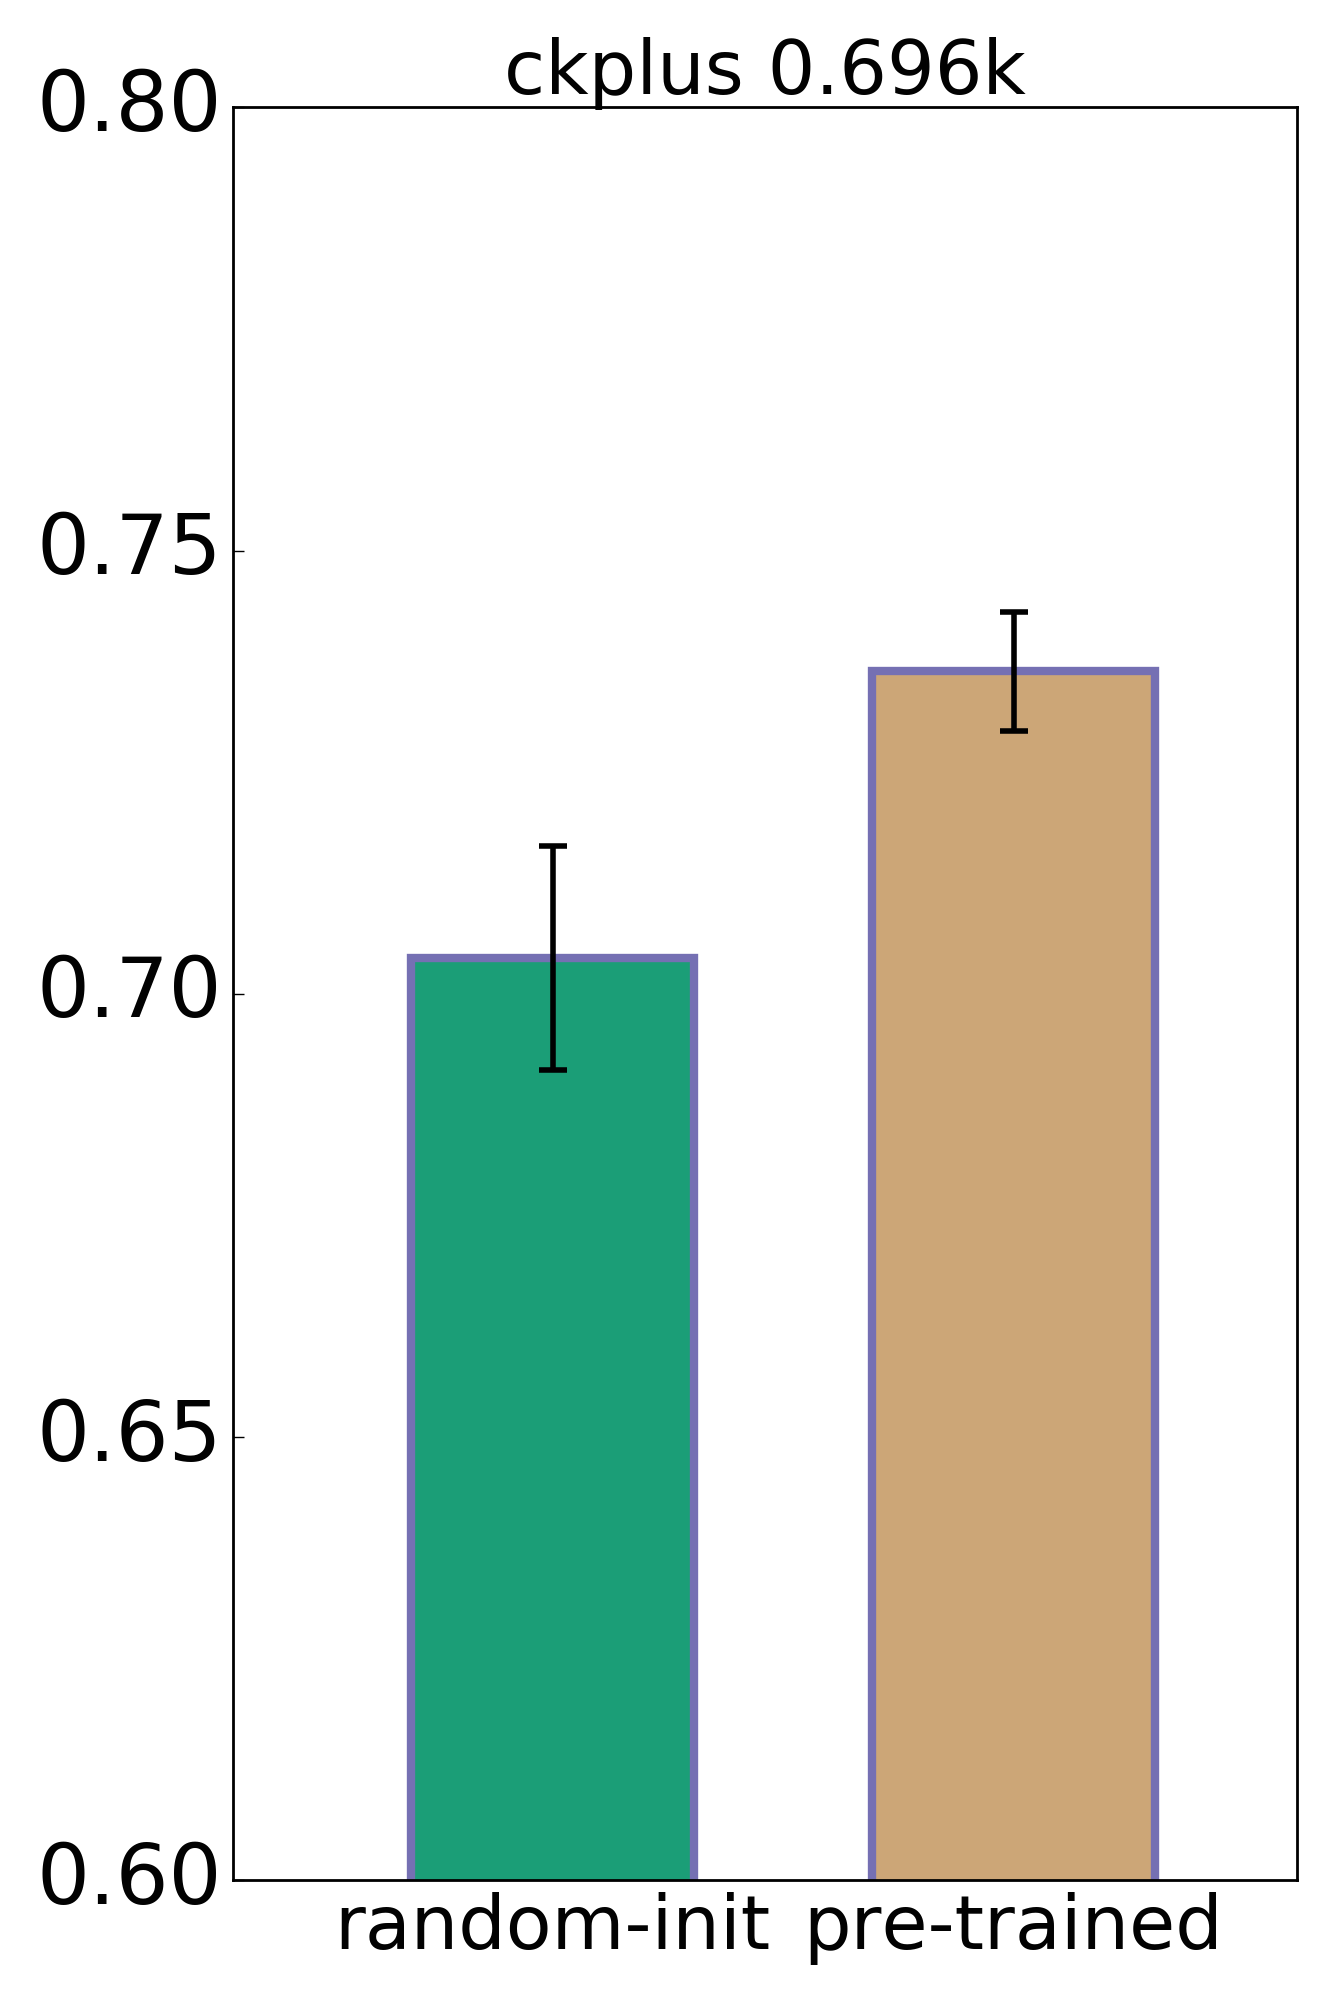
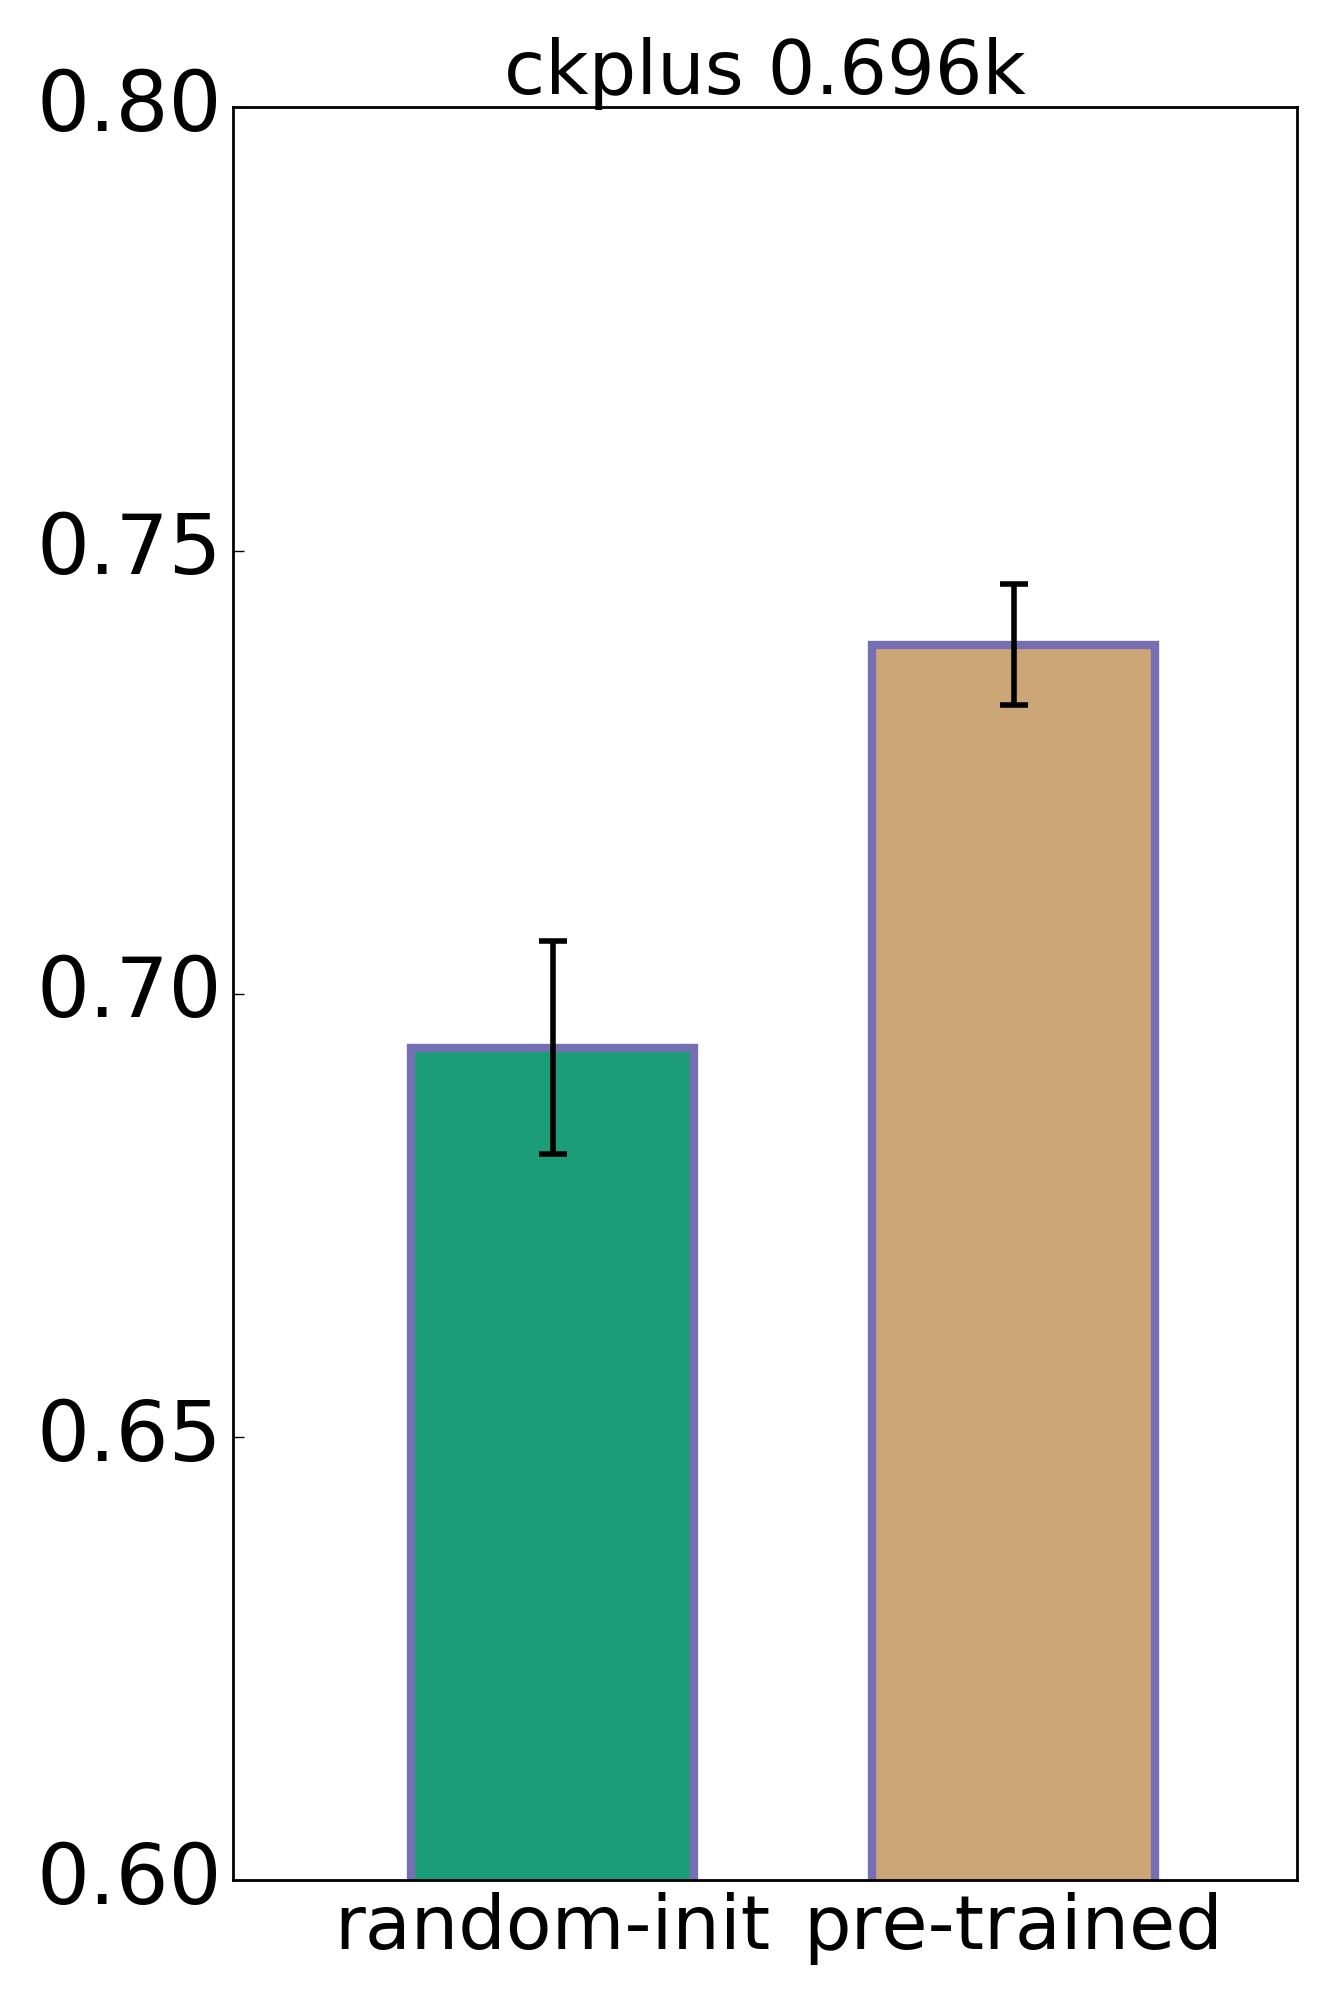
updated values and significance table

Changed region(s): [[0.3076, 0.403, 0.5229, 0.589], [0.6459, 0.279, 0.892, 0.372]]

diff --git a/presentation/box_plots/create_boxplots.py b/presentation/box_plots/create_boxplots.py
@@ -17,20 +17,51 @@ def create_cifar_boxplot():
 	# CIFAR #
 	## ### ##
 
+	print('\nCIFAR')
+
 	cifar_1k_pre_trained = [0.3655, 0.3703, 0.3681, 0.3634, 0.3650, 0.3698, 0.3800, 0.3679, 0.3652] 
 	cifar_1k_random_init = [0.3628, 0.3754, 0.3712, 0.3614, 0.3721, 0.3729, 0.3648, 0.3793, 0.3704, 0.3737]
 	cifar_1k = [cifar_1k_random_init, cifar_1k_pre_trained]
 	cifar_1k_trial_count = min(len(cifar_1k_pre_trained), len(cifar_1k_random_init))
 
-	cifar_10k_pre_trained = [0.5577, 0.5547, 0.5485, 0.5459, 0.5481, 0.5537, 0.5583, 0.5491]
-	cifar_10k_random_init = [0.5196, 0.5304, 0.5199, 0.5160, 0.5241, 0.5190, 0.5226, 0.5200, 0.5259]
+	_, c1_pvalue = stats.ttest_ind(cifar_1k_pre_trained, cifar_1k_random_init, equal_var = False)
+
+
+	avg_improvement = (np.mean(cifar_1k_pre_trained) - np.mean(cifar_1k_random_init)) * 100
+	print('--> CIFAR 1k <--')
+	print('avg improvement: {}'.format(avg_improvement))
+	print('cifar_1k p-value: {}'.format(c1_pvalue))
+
+	# cifar_10k_pre_trained = [0.5577, 0.5547, 0.5485, 0.5459, 0.5481, 0.5537, 0.5583, 0.5491]
+	# cifar_10k_random_init = [0.5196, 0.5304, 0.5199, 0.5160, 0.5241, 0.5190, 0.5226, 0.5200, 0.5259]
+	
+	cifar_10k_pre_trained = [0.5552, 0.5566, 0.5619, 0.5584, 0.5555, 0.5611, 0.5586, 0.5614, 0.5617, 0.5559]
+	cifar_10k_random_init = [0.5254, 0.5141, 0.5178, 0.5101, 0.5097, 0.5206, 0.5160, 0.5094, 0.5290, 0.5090]
 	cifar_10k = [cifar_10k_random_init, cifar_10k_pre_trained]
 	cifar_10k_trial_count = min(len(cifar_10k_random_init), len(cifar_10k_pre_trained))
 
-	cifar_full_pre_trained = [0.6572, 0.6592, 0.6535, 0.6557, 0.6300, 0.6544]
-	cifar_full_random_init = [0.6292, 0.6287, 0.6235, 0.6293, 0.6284, 0.6252]
+	_, c10_pvalue = stats.ttest_ind(cifar_10k_pre_trained, cifar_10k_random_init, equal_var = False)
+	
+
+	avg_improvement = (np.mean(cifar_10k_pre_trained) - np.mean(cifar_10k_random_init)) * 100
+	print('--> CIFAR 10k <--')
+	print('avg improvement: {}'.format(avg_improvement))
+	print('cifar_1k p-value: {}'.format(c10_pvalue))
+
+	# cifar_full_pre_trained = [0.6572, 0.6592, 0.6535, 0.6557, 0.6300, 0.6544]
+	# cifar_full_random_init = [0.6292, 0.6287, 0.6235, 0.6293, 0.6284, 0.6252]
+
+	cifar_full_pre_trained = [0.6572, 0.6592, 0.6535, 0.6557, 0.6300, 0.6544, 0.6612, 0.6603, 0.6544, 0.6563]
+	cifar_full_random_init = [0.6292, 0.6287, 0.6235, 0.6293, 0.6284, 0.6252, 0.6181, 0.6252, 0.6248, 0.6250]
 	cifar_full = [cifar_full_random_init, cifar_full_pre_trained]
 	cifar_full_trial_count = min(len(cifar_full_random_init), len(cifar_full_pre_trained))
+
+	_, cf_pvalue = stats.ttest_ind(cifar_full_pre_trained, cifar_full_random_init, equal_var = False)
+	
+	avg_improvement = (np.mean(cifar_full_pre_trained) - np.mean(cifar_full_random_init)) * 100
+	print('--> CIFAR FULL <--')
+	print('avg improvement: {}'.format(avg_improvement))
+	print('cifar_1k p-value: {}'.format(cf_pvalue))
 
 	cifar_ylims = 0.3, 0.7
 
@@ -45,10 +76,22 @@ def create_ckplus_boxplot():
 	# CKPLUS #
 	## #### ##
 
-	ckplus_full_pre_trained = [0.7323, 0.7374, 0.7475, 0.7374, 0.7273] 
-	ckplus_full_random_init = [0.6919, 0.7172, 0.6869, 0.7172, 0.7071]
+	print('\nCKPLUS')
+
+	# ckplus_full_pre_trained = [0.7323, 0.7374, 0.7475, 0.7374, 0.7273] 
+	# ckplus_full_random_init = [0.6919, 0.7172, 0.6869, 0.7172, 0.7071]
+	
+	ckplus_full_pre_trained = [0.7475, 0.7374, 0.7273, 0.7525, 0.7424, 0.7323, 0.7374, 0.7424, 0.7374, 0.7374]
+	ckplus_full_random_init = [0.6970, 0.6818, 0.7020, 0.6717, 0.7020, 0.7020, 0.6818, 0.7020, 0.7121, 0.6869]
 	ckplus_full = [ckplus_full_random_init, ckplus_full_pre_trained]
 	ckplus_full_trial_count = min(len(ckplus_full_pre_trained), len(ckplus_full_random_init))
+
+	_, ckplus_pvalue = stats.ttest_ind(ckplus_full_pre_trained, ckplus_full_random_init, equal_var = False)
+
+	avg_improvement = (np.mean(ckplus_full_pre_trained) - np.mean(ckplus_full_random_init)) * 100
+	print('--> CKPLUS <--')
+	print('avg improvement: {}'.format(avg_improvement))
+	print('cifar_1k p-value: {}'.format(ckplus_pvalue))
 
 	ckplus_ylims = 0.6, 0.8
 
@@ -63,6 +106,9 @@ def create_mnist_boxplot():
 	## ### ##
 	# MNIST #
 	## ### ##
+
+	print('\nMNIST')
+
 	#mnist_1k_pre_trained = [0.9038, 0.9009, 0.9009]
 	#mnist_1k_random_init = [0.8980, 0.8913, 0.9003]
 	#mnist_1k_pre_trained = [0.9109, 0.9129, 0.9135, 0.9091, 0.9083, 0.9123, 0.9117, 0.9126, 0.9119, 0.9132]
@@ -71,8 +117,12 @@ def create_mnist_boxplot():
 	mnist_1k_pre_trained = [0.9234, 0.9231, 0.9233, 0.9221, 0.9242, 0.9249, 0.9238, 0.9232, 0.9239, 0.9234]
 	mnist_1k_random_init = [0.9221, 0.9181, 0.9190, 0.9174, 0.9222, 0.9194, 0.9188, 0.9232, 0.9204, 0.9176]
 
-	_, pvalue = stats.ttest_ind(mnist_1k_pre_trained, mnist_1k_random_init, equal_var = False)
-	print('p-value: {}'.format( pvalue))
+	_, m1k_pvalue = stats.ttest_ind(mnist_1k_pre_trained, mnist_1k_random_init, equal_var = False)
+	
+	avg_improvement = (np.mean(mnist_1k_pre_trained) - np.mean(mnist_1k_random_init)) * 100
+	print('--> MNIST 1k <--')
+	print('avg improvement: {}'.format(avg_improvement))
+	print('mnist_1k p-value: {}'.format(m1k_pvalue))
 
 	mnist_1k = [mnist_1k_random_init, mnist_1k_pre_trained]
 	mnist_1k_trial_count = min(len(mnist_1k_pre_trained), len(mnist_1k_random_init))
@@ -86,8 +136,12 @@ def create_mnist_boxplot():
 	mnist_10k_pre_trained = [0.9775, 0.9788, 0.9774, 0.9782, 0.9780, 0.9786, 0.9788, 0.9777, 0.9769, 0.9781]
 	mnist_10k_random_init = [0.9692, 0.9740, 0.9760, 0.9753, 0.9739, 0.9714, 0.9757, 0.9748, 0.9753, 0.9754]
 
-	_, pvalue = stats.ttest_ind(mnist_10k_pre_trained, mnist_10k_random_init, equal_var = False)
-	print('p-value: {}'.format( pvalue))
+	_, m10k_pvalue = stats.ttest_ind(mnist_10k_pre_trained, mnist_10k_random_init, equal_var = False)
+	
+	avg_improvement = (np.mean(mnist_10k_pre_trained) - np.mean(mnist_10k_random_init)) * 100
+	print('--> MNIST 10k <--')
+	print('avg improvement: {}'.format(avg_improvement))
+	print('mnist 10k p-value: {}'.format(m10k_pvalue))
 
 	mnist_10k = [mnist_10k_random_init, mnist_10k_pre_trained]
 	mnist_10k_trial_count = min(len(mnist_10k_random_init), len(mnist_10k_pre_trained))
@@ -98,8 +152,12 @@ def create_mnist_boxplot():
 	mnist_full_pre_trained = [0.9856, 0.9884, 0.9881, 0.9870, 0.9887, 0.9886, 0.9872, 0.9881, 0.9870, 0.9882]
 	mnist_full_random_init = [0.9834, 0.9762, 0.9850, 0.9848, 0.9830, 0.9855, 0.9875, 0.9870, 0.9863, 0.9859]
 
-	_, pvalue = stats.ttest_ind(mnist_full_pre_trained, mnist_full_random_init, equal_var = False)
-	print('p-value: {}'.format( pvalue))
+	_, mf_pvalue = stats.ttest_ind(mnist_full_pre_trained, mnist_full_random_init, equal_var = False)
+	
+	avg_improvement = (np.mean(mnist_full_pre_trained) - np.mean(mnist_full_random_init)) * 100
+	print('--> MNIST full <--')
+	print('avg improvement: {}'.format(avg_improvement))
+	print('mnist full p-value: {}'.format(mf_pvalue))
 
 	mnist_full = [mnist_full_random_init, mnist_full_pre_trained]
 	mnist_full_trial_count = min(len(mnist_full_random_init), len(mnist_full_pre_trained))
@@ -201,6 +259,7 @@ def visualize_boxplot(data, dataset_name, in_k_sizes, trials, ylims, incl_trial_
 			ri_mean 	= np.mean(ri_data)
 			ri_stddev 	= np.std(ri_data) 
 
+			'''
 			print 'handling {} {}k'.format(dataset_name, in_k_sizes[i])
 			print 'ri_data: {}'.format(ri_data)
 			print 'ri_mean: {}'.format(ri_mean)
@@ -210,8 +269,9 @@ def visualize_boxplot(data, dataset_name, in_k_sizes, trials, ylims, incl_trial_
 			print 'pt_mean: {}'.format(pt_mean)
 			print 'pt_stdd: {}'.format(pt_stddev)
 
-			print 'ttest_ind: {}'.format(stats.ttest_ind(ri_data, pt_data)[1])
+			# print 'ttest_ind: {}'.format(stats.ttest_ind(ri_data, pt_data)[1])
 			print ''
+			'''
 
 			ax = plt.gca()
 			pt_bp = ax.bar([1.8], pt_mean, yerr=pt_stddev, error_kw=dict(ecolor='black', lw=2, capsize=5, capthick=2))
